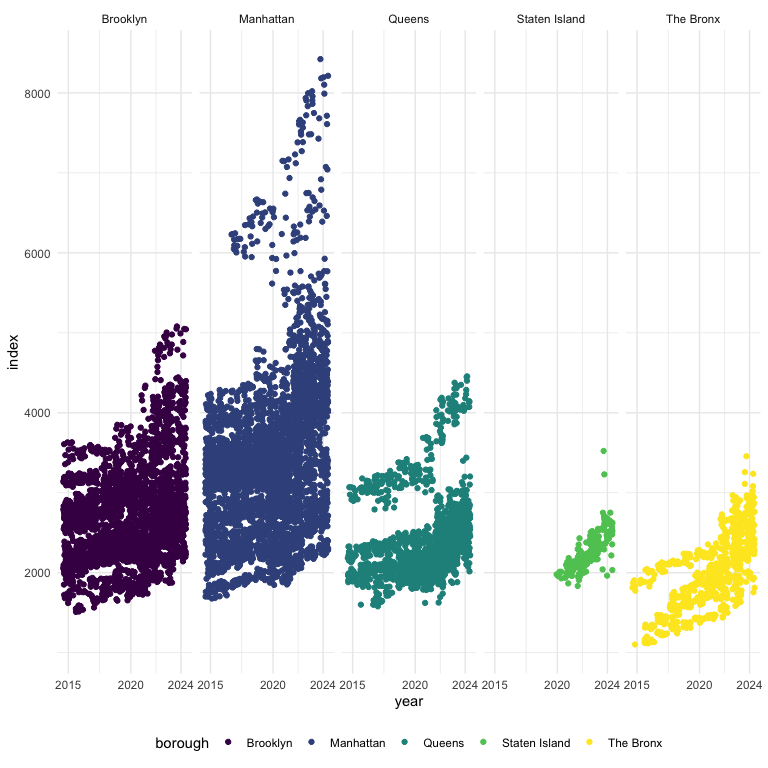
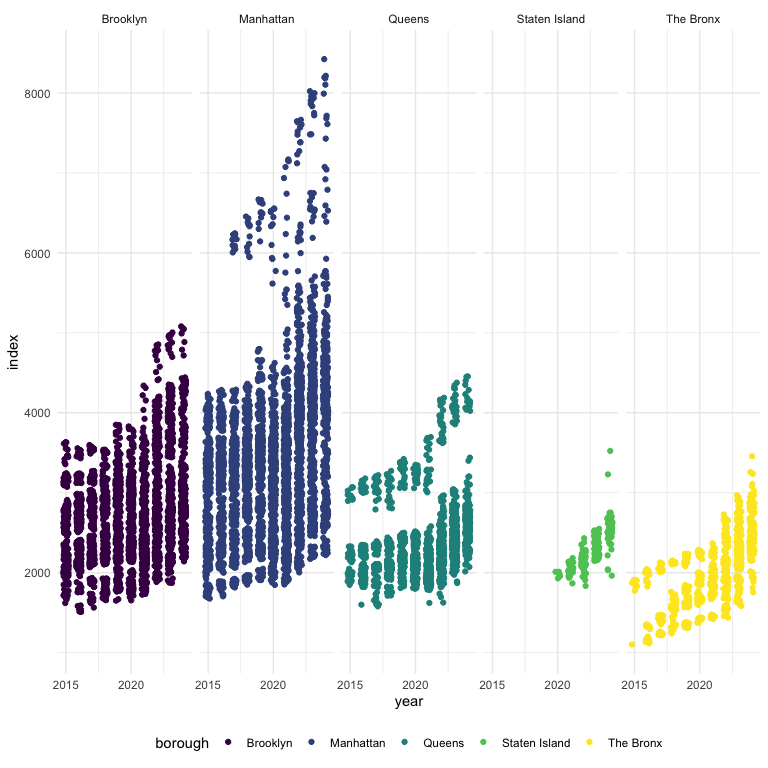
updating plot

diff --git a/p8105_hw3_sc5826.md b/p8105_hw3_sc5826.md
@@ -337,11 +337,11 @@ zori_nyc_neighborhoods |>
     ) |> 
   filter(!is.na(index)) |> 
   ggplot(aes(x = year, y = index, color = borough)) +
-  geom_jitter(height = 0) +
+  geom_jitter(height = 0, width = 0.2) +
   # geom_smooth(method = "lm", stat = "smooth") +
   facet_grid(.~borough) +
   scale_x_continuous(
-    breaks = c(2015, 2020, 2024)
+    breaks = c(2015, 2020)
   ) 
 ```
 
